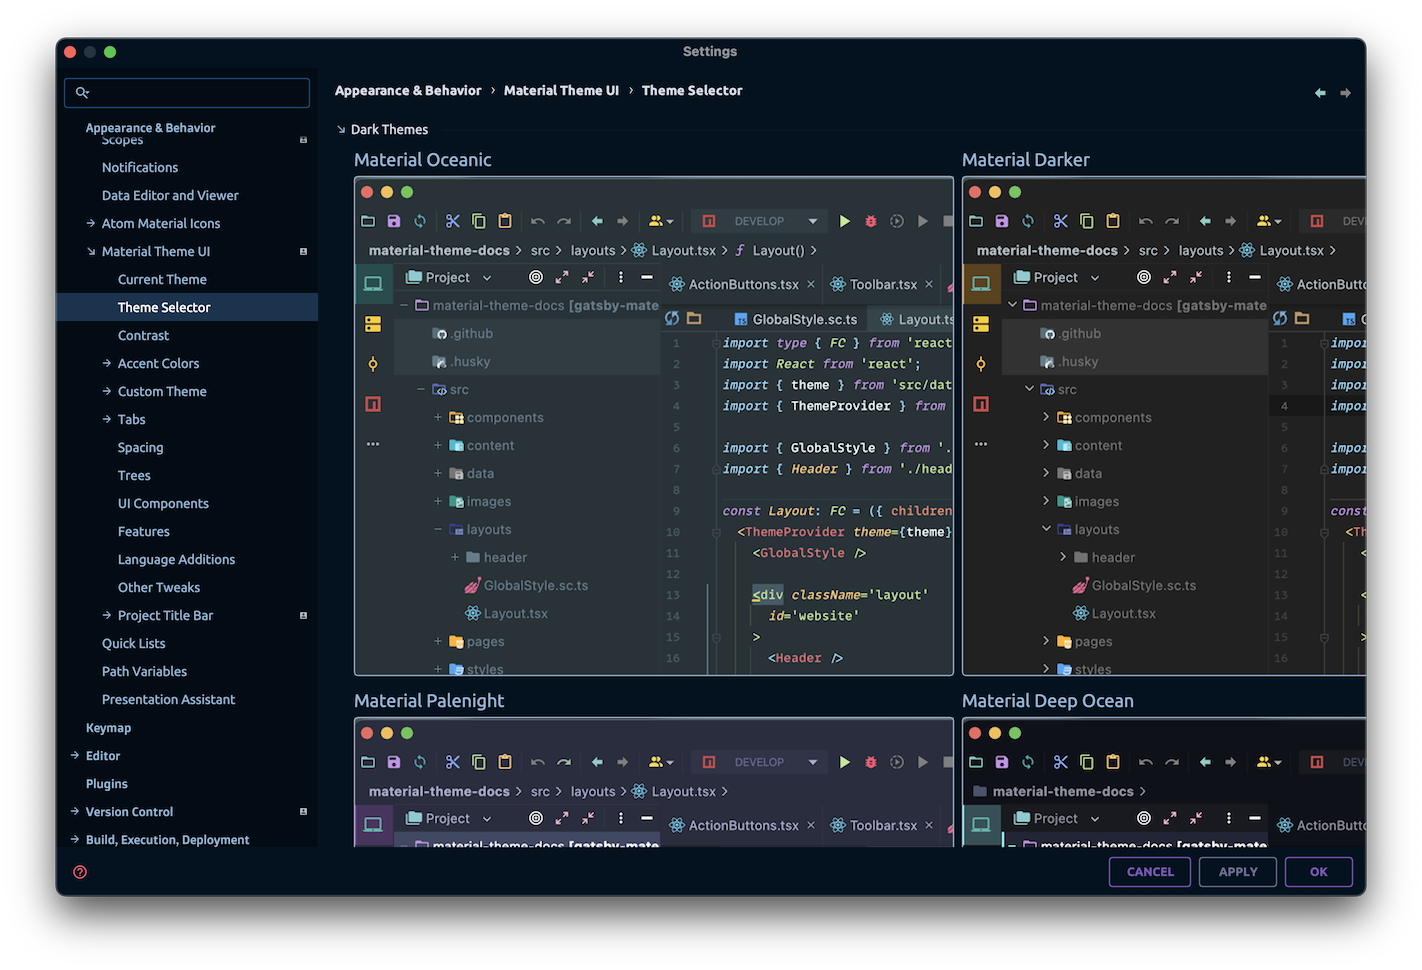
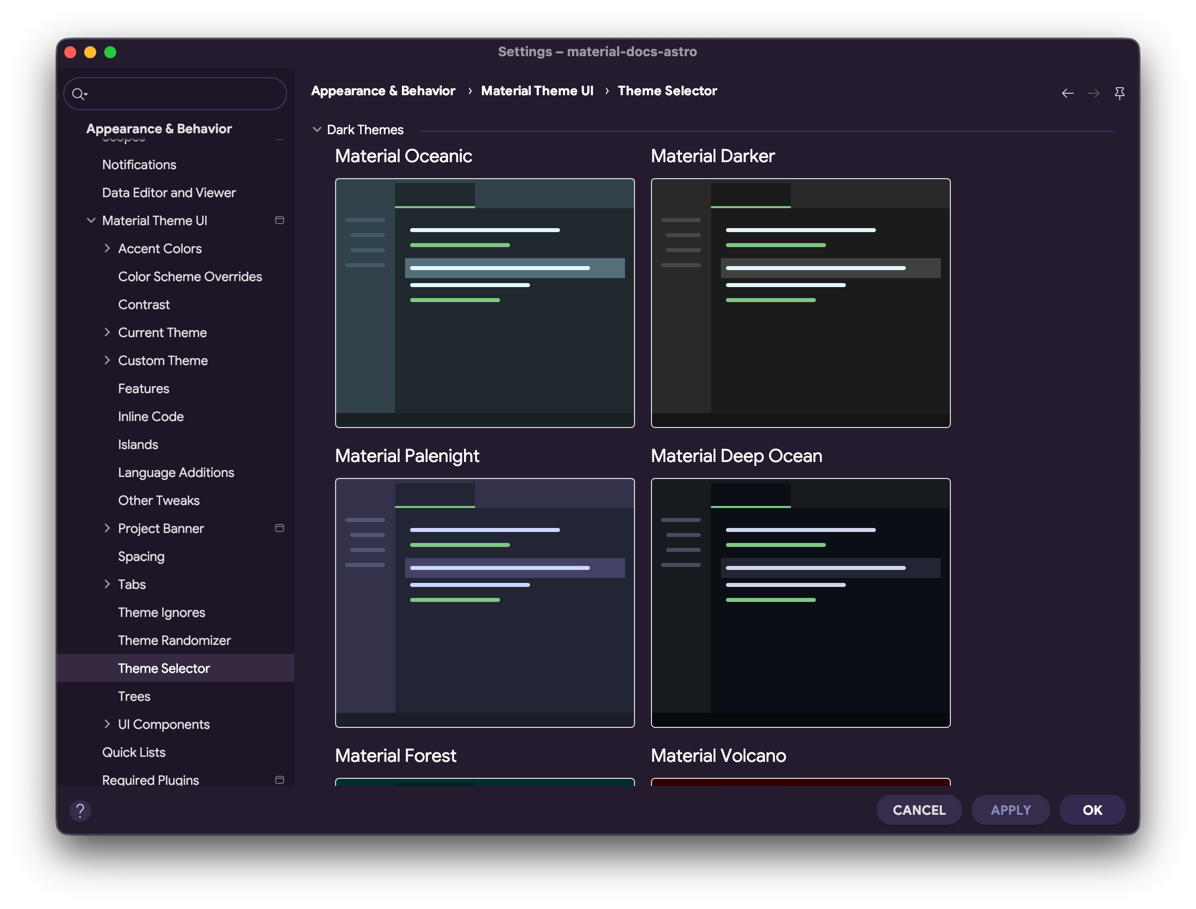
feat(config, resources): refactor and improve color scheme settings options

diff --git a/docs/configuration/settings.md b/docs/configuration/settings.md
@@ -38,9 +38,11 @@ This section provides a visual grid of all colors used by the currently active t
 ### Theme switcher
 
 The plugin includes several prebundled themes that can be switched using the
-![Theme Switcher](/img/icons/switcher.svg) **Theme Switcher**.
+![Theme Switcher](/img/icons/switcher.svg) **Theme Selector**.
 
-{% include figure.html content="/screens/settingsv3/switcher.png" caption="Theme Switcher" %}
+{% include figure.html content="/screens/settingsv3/themeSelector.png" caption="Theme Selector" %}
+
+{% include figure.html content="/screens/archive/switcher.png" caption="Theme Switcher (Old)" %}
 
 There are many ways to invoke the *Theme Switcher*:
 
@@ -56,7 +58,8 @@ Alternatively, use the **Theme Selector** at `Settings → Appearance → Materi
 
 {% include figure.html content="/screens/settingsv3/themeSelector.png" caption="Theme Selector" %}
 
-The plugin comes prebundled with {{ site.data.themes.material.size | plus: site.data.themes.material2.size | plus: site.data.themes.other.size | plus:
+The plugin comes prebundled with {{ site.data.themes.material.size | plus: site.data.themes.material2.size | plus:
+site.data.themes.other.size | plus:
 site.data.themes.other2.size }} themes:
 
 #### Material themes
@@ -106,7 +109,8 @@ See [Custom Themes](/docs/configuration/custom-themes) for more information.
 
 #### Native Themes
 
-Native Themes utilize the JetBrains Theme API. The plugin automatically converts these themes, allowing you to use their colors while still benefiting from Material Theme features such as custom components and accent modes.
+Native Themes utilize the JetBrains Theme API. The plugin automatically converts these themes, allowing you to use their colors while still
+benefiting from Material Theme features such as custom components and accent modes.
 
 No manual configuration is required: simply download a native theme and select it; the plugin will handle the conversion.
 
@@ -129,7 +133,8 @@ This feature is only available for premium users.
 
 Since version 9.0, the plugin includes an **Adaptive Theme** that dynamically updates its colors based on your current **color scheme**.
 
-This is particularly useful when using color schemes that do not bundle their own UI themes (e.g., [Rainglow color schemes](https://rainglow.io/)).
+This is particularly useful when using color schemes that do not bundle their own UI themes (
+e.g., [Rainglow color schemes](https://rainglow.io/)).
 
 Examples:
 
@@ -143,8 +148,8 @@ Examples:
 
 {% include figure.html content="/screens/themes/tetra.png" caption="Rainglow Tetra Color Scheme" %}
 
-
-You can further customize the Adaptive Theme's behavior via the **Color Scheme Settings Page**, allowing you to fine-tune the UI directly from your color scheme settings.
+You can further customize the Adaptive Theme's behavior via the **Color Scheme Settings Page**, allowing you to fine-tune the UI directly
+from your color scheme settings.
 
 {% include figure.html content="/screens/settingsv3/adaptiveTheme.png" caption="Adaptive Theme" %}
 
@@ -226,9 +231,11 @@ This section provides a visual grid of all colors used by the currently active t
 
 **[Accent Mode](/docs/configuration/accent-mode)**:
 
-- *Accent Mode*![premium](/img/icons/premium.png): Emphasize specific components (buttons, tabs, selections, etc.) by applying the accent color.
+- *Accent Mode*![premium](/img/icons/premium.png): Emphasize specific components (buttons, tabs, selections, etc.) by applying the accent
+  color.
 - *Second Accent Color*![premium](/img/icons/premium.png): Define an additional accent color to complement the primary one.
-- *Allow Color Scheme Modifications*![premium](/img/icons/premium.png): Update the current color scheme to apply accent colors to elements like links, tab indicators, and selections.
+- *Allow Color Scheme Modifications*![premium](/img/icons/premium.png): Update the current color scheme to apply accent colors to elements
+  like links, tab indicators, and selections.
 - *Fine-grained settings*![premium](/img/icons/premium.png): Apply accent mode to specific UI components rather than globally.
   - *Buttons*: Primary buttons
   - *Tabs*: Selected tabs
@@ -292,13 +299,14 @@ This section provides a visual grid of all colors used by the currently active t
 - *Island Arc Size*![premium](/img/icons/premium.png): Sets a custom arc radius.
 - *Inner Spacing*![premium](/img/icons/premium.png): Customize the inner spacing inside the islands.
 - *Outer Margin*![premium](/img/icons/premium.png): Customize the spacing between the islands.
-- *Islands Gap*![premium](/img/icons/premium.png): Set the gap between the islands and the window borders (only when the tool windows are hidden).
+- *Islands Gap*![premium](/img/icons/premium.png): Set the gap between the islands and the window borders (only when the tool windows are
+  hidden).
 - *Tool Window Overlay Opacity*: Customize the opacity applied to the tool windows when the IDE is inactive.
 
 **[Trees](/docs/configuration/trees)**:
 
 - *Custom Tree Indent*![premium](/img/icons/premium.png): Fine-tune the indentation of tree items.
-    - You can configure both *Left* and *Right* indents.
+  - You can configure both *Left* and *Right* indents.
 - *Custom Line Item Height*![premium](/img/icons/premium.png): Set custom line height in trees (min: `18`, max: `44`).
 - *Custom Tree Font*![premium](/img/icons/premium.png): Customize the font and font size of the project trees.
 - *Selected Indicator Style*![premium](/img/icons/premium.png): Change the visual style of the indicator for selected tree items.
@@ -311,7 +319,8 @@ This section provides a visual grid of all colors used by the currently active t
   - *None*: Remove the indicator
 - *Thickness*![premium](/img/icons/premium.png): Control the thickness of the indicator.
 - *Use Gradient*![premium](/img/icons/premium.png): Use a gradient instead of a single color for the indicator.
-- *Use complementary color*![premium](/img/icons/premium.png): If using a gradient, use the complementary color of the accent color for the gradient.
+- *Use complementary color*![premium](/img/icons/premium.png): If using a gradient, use the complementary color of the accent color for the
+  gradient.
 - *Arrows Style*![premium](/img/icons/premium.png): Change the style of the arrows in the trees.
   - *Material*: Material UI Styled Arrows (chevrons)
   - *Darcula*: Darcula Styled Arrows (triangles)
@@ -319,7 +328,8 @@ This section provides a visual grid of all colors used by the currently active t
   - *Arrows*: Simple arrows
   - *Circle*: Circled arrows
   - *None*: No arrows
-- *Colored Open Directories*![premium](/img/icons/premium.png): Assign a specific style to directories. Can be configured from the *Custom File Colors* settings page.
+- *Colored Open Directories*![premium](/img/icons/premium.png): Assign a specific style to directories. Can be configured from the *Custom
+  File Colors* settings page.
 
 **[UI Components](/docs/configuration/ui-components)**:
 
@@ -336,12 +346,14 @@ This section provides a visual grid of all colors used by the currently active t
 - *Search Everywhere Customization*![premium](/img/icons/premium.png): Customize the look of the Search Everywhere popup.
   - *Custom Input Padding*![premium](/img/icons/premium.png): Increase or decrease the size of the Search Everywhere input field.
   - *Font Size Delta*![premium](/img/icons/premium.png): Increase or decrease the size of the font.
-- *Inverted Completion Selection Color*: Toggle between the theme's selection color and a high-contrast color for the active item in the *Autocomplete* popup.
+- *Inverted Completion Selection Color*: Toggle between the theme's selection color and a high-contrast color for the active item in the
+  *Autocomplete* popup.
 - *Scrollbars*:
   - *Accent Scrollbars*: Set the color of the scrollbars to the accent color (requires restart).
   - *Transparent Scrollbars*: Enable/Disable transparency in scrollbars (requires restart).
 - *Extra Shadows*![premium](/img/icons/premium.png): Add a subtle shadow around notifications and some popups.
-- *Material Circular Loader Icon*: Replace the loading icon with a Material Design circular loader icon (available only in conjunction with the [Atom Material Icons](https://plugins.jetbrains.com/plugin/10044-atom-material-icons) plugin).
+- *Material Circular Loader Icon*: Replace the loading icon with a Material Design circular loader icon (available only in conjunction with
+  the [Atom Material Icons](https://plugins.jetbrains.com/plugin/10044-atom-material-icons) plugin).
 - *Use original Tool Window Hover Buttons*: Replace the look of the hover indicator on the Tool Windows with the native one.
 
 **[Features](/docs/configuration/features)**:
@@ -353,7 +365,8 @@ This section provides a visual grid of all colors used by the currently active t
   - *Add more popups under overlays*: When enabled, triggers overlays for additional popups such as right-click menus and dropdowns.
   - *Overlays Opacity*: Customize the opacity of the overlays.
 - *Material Wallpapers*![premium](/img/icons/premium.png): Add a custom wallpaper per theme for the empty frame window.
-- *Custom UI Font*![premium](/img/icons/premium.png): Set your own custom UI Font. Supplements the IDE's [_Custom Font_](https://www.jetbrains.com/help/idea/settings-appearance.html).
+- *Custom UI Font*![premium](/img/icons/premium.png): Set your own custom UI Font. Supplements the IDE's [_Custom
+  Font_](https://www.jetbrains.com/help/idea/settings-appearance.html).
 - *Material File Status Colors*: Enable/Disable the [Material File Status Colors](/docs/configuration/file-status-colors).
 - *Custom Directories Style*![premium](/img/icons/premium.png): Customize the style of directories.
 - *Automatically reset color scheme*: Automatically reset the color scheme on theme activation (_only for bundled color schemes_).
@@ -367,14 +380,17 @@ This section provides a visual grid of all colors used by the currently active t
 
 **[Theme Ignores](/docs/configuration/theme-ignores)**:
 
-This section allows you to add specific UI Properties to ignore when loading custom themes, so that they will be replaced by the plugin's default values.
+This section allows you to add specific UI Properties to ignore when loading custom themes, so that they will be replaced by the plugin's
+default values.
 
-This is particularly useful in the case when external themes don't define properties, so that you don't end up with the default `Darcula` values.
+This is particularly useful in the case when external themes don't define properties, so that you don't end up with the default `Darcula`
+values.
 
 **[Language Additions](/docs/configuration/language-additions)**:
 
 - *Language Additions*![premium](/img/icons/premium.png): Enable/Disable the [Language Additions](/docs/configuration/language-additions).
-- *Advanced Settings*![premium](/img/icons/premium.png): Turn off language additions for specific languages, depending on the IDE. The available options are:
+- *Advanced Settings*![premium](/img/icons/premium.png): Turn off language additions for specific languages, depending on the IDE. The
+  available options are:
   - Java (IntelliJ IDEA)
   - Kotlin (IntelliJ IDEA)
   - JavaScript (WebStorm, JavaScript plugin)
@@ -396,7 +412,8 @@ This is particularly useful in the case when external themes don't define proper
 - *Show Project Icon*![premium](/img/icons/premium.png): Display the _project's custom icon_ on the stripe.
 - *Show Project Title*![premium](/img/icons/premium.png): Displays the _project title_ on the stripe.
 - *Customize Text*![premium](/img/icons/premium.png): Customize the displayed text.
-    - You can use the keywords `{project}`, `{module}`, `{fullPath}`, `{path}` and `{file}` to refer respectively to the current project, module, full path, local path and/or current file.
+  - You can use the keywords `{project}`, `{module}`, `{fullPath}`, `{path}` and `{file}` to refer respectively to the current project,
+    module, full path, local path and/or current file.
 - *Project Title Frame Settings*:
   - *Project Frame Width*: Set the width of the project frame (use 0 for the whole width).
   - *Project Frame Height*: Set the height of the project frame.
@@ -436,7 +453,8 @@ Your current configuration is stored inside the IDE settings' directory under th
 If, for some reason, there are issues with the plugin,
 or you don't manage to reset to a stable state, delete these files and restart the IDE.
 
-Read the [IDE Settings](https://intellij-support.jetbrains.com/hc/en-us/articles/206544519-Directories-used-by-the-IDE-to-store-settings-caches-plugins-and-logs) 
+Read
+the [IDE Settings](https://intellij-support.jetbrains.com/hc/en-us/articles/206544519-Directories-used-by-the-IDE-to-store-settings-caches-plugins-and-logs)
 and [Directories used by the IDE](https://www.jetbrains.com/help/idea/directories-used-by-the-ide-to-store-settings-caches-plugins-and-logs.html)
 documentation to learn where these configuration files are stored.
 
@@ -469,32 +487,44 @@ See [Custom Theme](/docs/configuration/custom-themes) for more details.
 
 **Q**: **I've updated the IDE or plugin, and now the plugin fails to initialize. How can I fix this?**
 
-**A**: This may occur if your settings are incompatible with the new version. Try creating a backup of your settings file, then delete the original and restart the IDE. If the issue is resolved, you can reconfigure your settings manually. If it persists, please report the issue on our GitHub repository.
+**A**: This may occur if your settings are incompatible with the new version. Try creating a backup of your settings file, then delete the
+original and restart the IDE. If the issue is resolved, you can reconfigure your settings manually. If it persists, please report the issue
+on our GitHub repository.
 
 **Q**: **I've removed the plugin, but the background image persists!**
 
-**A**: This occurs because the *Custom Wallpaper* feature utilizes the IDE's native `Set Background image` function. If removing the plugin doesn't clear the image, you can do so manually via the Command Panel (`Cmd-Shift-A`/`Ctrl-Shift-A`) by searching for `Set Background image` and clearing the value, or by navigating to `Settings → Appearance → Background Image`.
+**A**: This occurs because the *Custom Wallpaper* feature utilizes the IDE's native `Set Background image` function. If removing the plugin
+doesn't clear the image, you can do so manually via the Command Panel (`Cmd-Shift-A`/`Ctrl-Shift-A`) by searching for `Set Background image`
+and clearing the value, or by navigating to `Settings → Appearance → Background Image`.
 
 **Q**: **What data is collected via the analytics option?**
 
-**A**: This option sends anonymous usage data to Material Theme servers to help us understand user configurations and trends. These metrics allow us to prioritize development and improve the plugin. The data is entirely anonymous and is never shared with or sold to third parties. You can disable this option at any time in `material_theme.xml`.
+**A**: This option sends anonymous usage data to Material Theme servers to help us understand user configurations and trends. These metrics
+allow us to prioritize development and improve the plugin. The data is entirely anonymous and is never shared with or sold to third parties.
+You can disable this option at any time in `material_theme.xml`.
 
 **Q**: **My settings seem jumbled or lost.**
 
-**A**: As the plugin evolves, some settings may be modified or retired, which can occasionally impact configuration files. We aim to minimize these disruptions. If you encounter issues, try deleting your configuration files or specific properties until the IDE launches correctly.
+**A**: As the plugin evolves, some settings may be modified or retired, which can occasionally impact configuration files. We aim to
+minimize these disruptions. If you encounter issues, try deleting your configuration files or specific properties until the IDE launches
+correctly.
 
 **Q**: **The wizard only appeared once and I can't find it anymore.**
 
-**A**: By design, the wizard only appears upon initial installation. However, you can relaunch it at any time via the [Material Theme Toolbar](/docs/configuration/quick-actions-panel), under the Features menu.
+**A**: By design, the wizard only appears upon initial installation. However, you can relaunch it at any time via
+the [Material Theme Toolbar](/docs/configuration/quick-actions-panel), under the Features menu.
 
 **Q**: **Where have all the icons gone?**
 
-**A**: Starting with version 5.0.0, icon-related settings have been moved to the [Atom Material Icons plugin](https://plugins.jetbrains.com/plugin/10044-atom-material-icons), also developed by the Material Theme team.
+**A**: Starting with version 5.0.0, icon-related settings have been moved to
+the [Atom Material Icons plugin](https://plugins.jetbrains.com/plugin/10044-atom-material-icons), also developed by the Material Theme team.
 This change encourages the development of independent _Icon Themes_, as the main plugin no longer bundles icons.
 
 **Q**: **I've installed a theme from the Marketplace, but some UI elements are not correctly themed.**
 
-**A**: These are likely "Native Themes" that use the JetBrains Theme API. While the Material Theme UI plugin attempts to convert them to its own format for better compatibility, the result may not always be perfect. If you encounter significant issues, please report them to the respective theme's repository.
+**A**: These are likely "Native Themes" that use the JetBrains Theme API. While the Material Theme UI plugin attempts to convert them to its
+own format for better compatibility, the result may not always be perfect. If you encounter significant issues, please report them to the
+respective theme's repository.
 
 **Q**: **I've bought a license, but I am still identified as a Free User!**
 
@@ -504,4 +534,6 @@ This change encourages the development of independent _Icon Themes_, as the main
 
 {% include figure.html content="/screens/license/manageSubscriptions.png" caption="License" %}
 
-**Important note**: Android Studio users must install the [JetBrains Marketplace Licensing Support](https://plugins.jetbrains.com/plugin/13407-jetbrains-marketplace-licensing-support) plugin to activate the Material Theme UI (or any other paid plugin).
+**Important note**: Android Studio users must install
+the [JetBrains Marketplace Licensing Support](https://plugins.jetbrains.com/plugin/13407-jetbrains-marketplace-licensing-support) plugin to
+activate the Material Theme UI (or any other paid plugin).